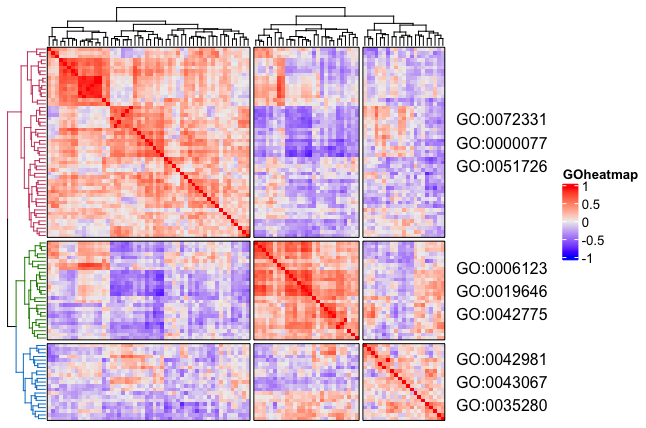
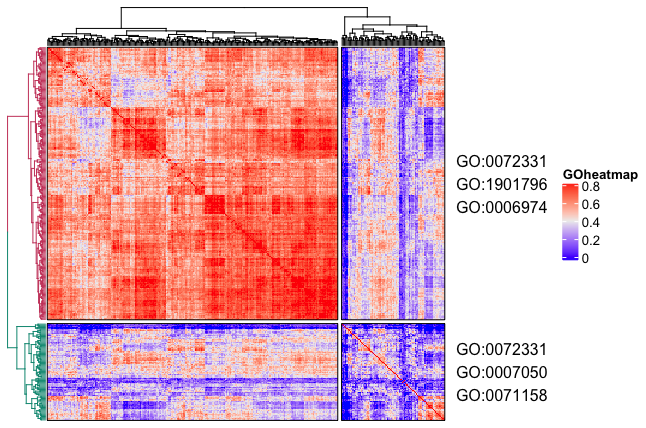
#

diff --git a/README.md b/README.md
@@ -16,7 +16,7 @@ library(GOheatmap)
 ```
 
 **Load example data**
-LAML-TCGA RNAseq data
+selected STAD-TCGA RNAseq data (gene set for Transcriptional regulation by TP53; 50 patients from TP53 wildtype and 50 from mutation)
 ``` r 
 mat.file <- system.file("extdata", "mat.Rdata", package="GOheatmap")
 load(mat.file)
@@ -33,24 +33,23 @@ knitr::kable(head(mat[, 1:4], 3), "simple")
 
 # column: samples, row: genes (HGNC symbol)
 
-        TCGA.AB.2803.03   TCGA.AB.2805.03   TCGA.AB.2806.03   TCGA.AB.2807.03
------  ----------------  ----------------  ----------------  ----------------
-AGO1          1758.2305         4728.2463         2947.8039         2831.1817
-AGO2           367.2840          771.7537         1113.3036         1076.4647
-AGO3           727.3663         1237.6171          896.2444          965.2433
+         TCGA.CD.8536.01   TCGA.HU.A4G3.01   TCGA.BR.8058.01   TCGA.CG.5722.01
+------  ----------------  ----------------  ----------------  ----------------
+AKT1               11071             11013              7099              3754
+AKT2                5643              2964              6347              5408
+APAF1               2102              2265              2689               626
 ```
 
 **Run goheatmap**
 
-Parameters k (number of clustering), n_go (number of terms to display), sources [details here](https://biit.cs.ut.ee/gprofiler/page/apis), cor (TRUE for spearman's correlation coefficient, FALSE for z-score normalization), title (Title of heatmap)
+Parameters k (number of clustering), n_go (number of terms to display), sources [details here](https://biit.cs.ut.ee/gprofiler/page/apis), cor (TRUE for spearman's correlation coefficient, FALSE for z-score normalization from variance stabilizing transformed matrix (DESeq2)), title (Title of heatmap)
 
 ``` r
-goheatmap(mat, k = 3, n_go = 3, sources = "GO:BP", cor = TRUE, title = "GOheatmap")
-goheatmap(mat, k = 3, n_go = 3, sources = "KEGG", cor = TRUE, title = "GOheatmap")
-goheatmap(mat, k = 3, n_go = 3, sources = "WP", cor = TRUE, title = "GOheatmap")
-
+goheatmap(mat, k = 2, n_go = 3, sources = "GO:BP", cor.s = TRUE, title = "GOheatmap")
+goheatmap(mat, k = 2, n_go = 3, sources = "KEGG", cor.s = TRUE, title = "GOheatmap")
+goheatmap(mat, k = 2, n_go = 3, sources = "GO:BP", cor.s = FALSE, title = "GOheatmap")
 ```
 
 <img src="inst/extdata/example_go.bp.png"/>
 <img src="inst/extdata/example_kegg.png"/>
-<img src="inst/extdata/example_wp.png"/>
+<img src="inst/extdata/example_go.bp2.png"/>
